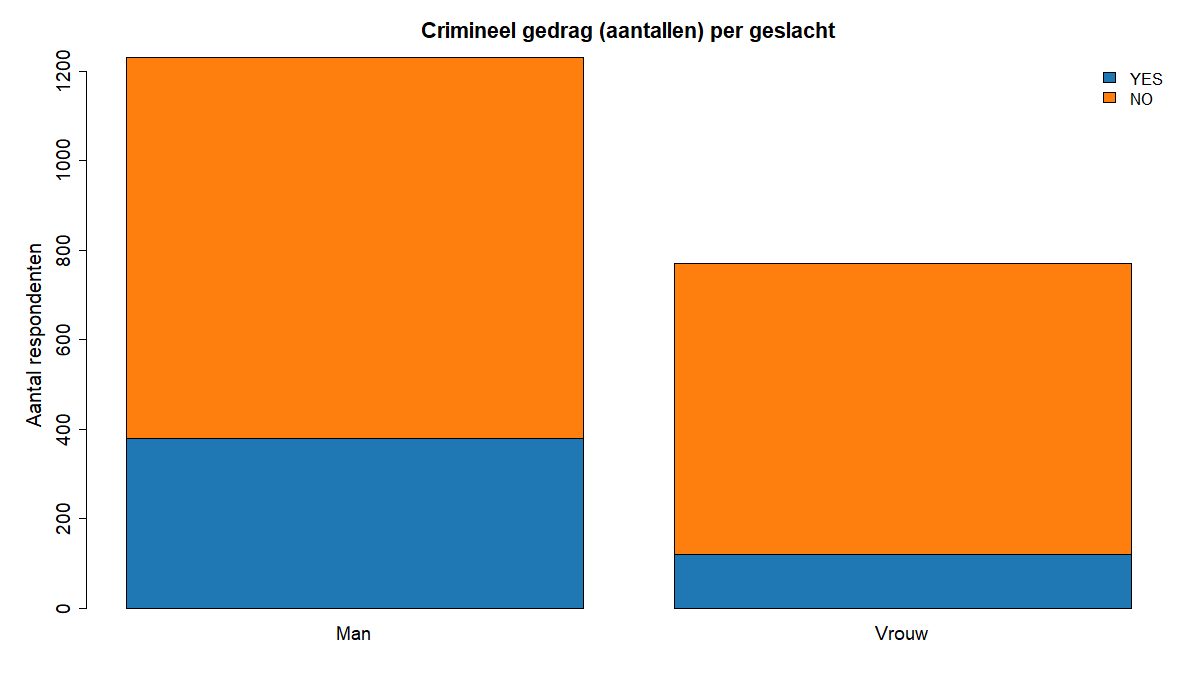
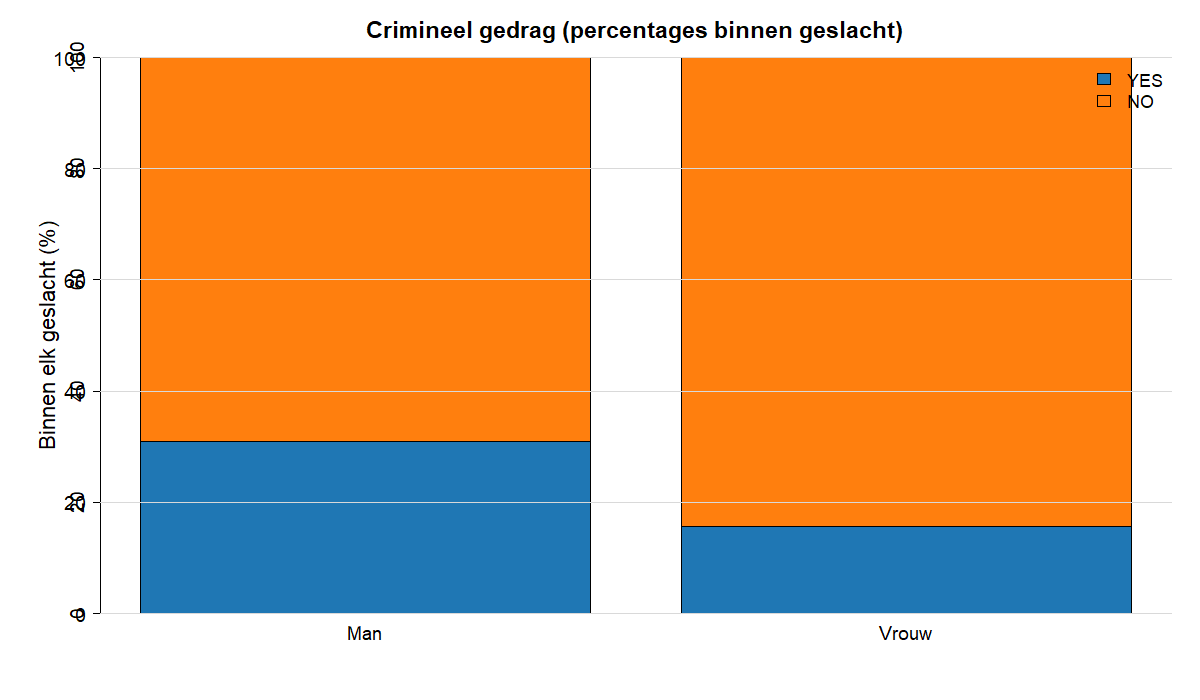
Update video links and feedback messages for Oef - 7.2; enhance clarity and instructional guidance.

Changed region(s): [[0.0, 0.03, 0.9867, 0.93], [0.0617, 0.87, 0.0925, 0.9]]

diff --git a/Hoofdstuk_7_Bivariate associatiematen voor nominale en ordinale variabelen/Lees - 7.0 Inleiding en studiemateriaal/description/description.nl.md b/Hoofdstuk_7_Bivariate associatiematen voor nominale en ordinale variabelen/Lees - 7.0 Inleiding en studiemateriaal/description/description.nl.md
@@ -14,18 +14,12 @@ Studiemateriaal en leerdoelen:
 
 ## **Verplichte Videomateriaal**
 
-### **Inleiding tot associatiematen**
+- Inleiding tot associatiematen: <https://www.youtube.com/watch?v=vuFKAFEcmy0>
+- Gamma berekenen in kruistabellen: <https://www.youtube.com/watch?v=9UvOR7fGWZM>
+- Associatiematen voor nominale en ordinale variabelen: <https://www.youtube.com/watch?v=ZnoWaNLOOvQ>
+- Toetsen en associatiematen voor nominale en ordinale variabelen: <https://www.youtube.com/watch?v=iPSV-n9UWuo>
 
-<iframe width="560" height="315" src="https://www.youtube.com/embed/vuFKAFEcmy0" title="Inleiding tot associatiematen" frameborder="0" allowfullscreen></iframe>
-
-### **Gamma berekenen in kruistabellen**
-<iframe width="560" height="315" src="https://www.youtube.com/embed/9UvOR7fGWZM" title="Gamma berekenen in kruistabellen" frameborder="0" allowfullscreen></iframe>
-
-### **Associatiematen voor nominale en ordinale variabelen**
-<iframe width="560" height="315" src="https://www.youtube.com/embed/ZnoWaNLOOvQ" title="Associatiematen voor nominale en ordinale variabelen" frameborder="0" allowfullscreen></iframe>
-
-### **Toetsen en associatiematen voor nominale en ordinale variabelen**
-<iframe width="560" height="315" src="https://www.youtube.com/embed/iPSV-n9UWuo" title="Toetsen en associatiematen voor nominale en ordinale variabelen" frameborder="0" allowfullscreen></iframe>
+Klik op de links om de video's in een nieuw tabblad te openen.
 ---
 
 ## Verplichte Literatuur

diff --git a/Hoofdstuk_7_Bivariate associatiematen voor nominale en ordinale variabelen/Oef - 7.2/description/description.nl.md b/Hoofdstuk_7_Bivariate associatiematen voor nominale en ordinale variabelen/Oef - 7.2/description/description.nl.md
@@ -7,7 +7,7 @@ Een onderzoeker wil nagaan of er een verband is tussen **geslacht** en **crimine
 
 Je berekent alles **met de hand** (rekenmachine mag). In R vul je enkel je **eindresultaten** in (geen R-berekeningen nodig).
 
-<img src="media/gender_counts_stacked.png" alt="Kruistabel als gestapelde staafdiagram" width="620">
+<img src="media/gender_counts_stacked.png" alt="100%-gestapelde staafdiagram (percentages binnen geslacht)" width="620">
 
 ## Opdrachten (vul de variabelen in de boilerplate)
 1) Marginale percentages (t.o.v. N = 2000)

diff --git a/Hoofdstuk_7_Bivariate associatiematen voor nominale en ordinale variabelen/Oef - 7.3/description/description.nl.md b/Hoofdstuk_7_Bivariate associatiematen voor nominale en ordinale variabelen/Oef - 7.3/description/description.nl.md
@@ -5,4 +5,6 @@ Welke uitspraak over Spearman's rho is fout?
 3. Spearman's rho kan negatief zijn als hogere waarden van de ene variabele samenhangen met lagere waarden van de andere.
 4. Spearman's rho kan nooit negatief zijn; een daling in de ene variabele betekent automatisch een daling in de andere.
 
+**Hint:** *Denk aan het mogelijke teken en het bereik van Spearman's rho en aan het type relatie (monotoon stijgend of dalend) dat deze maat kan beschrijven.*
+
 - Typ je antwoord als één enkel getal (1-4) om je keuze aan te geven.
